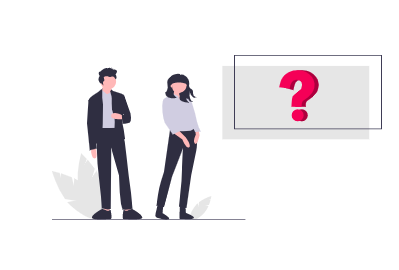
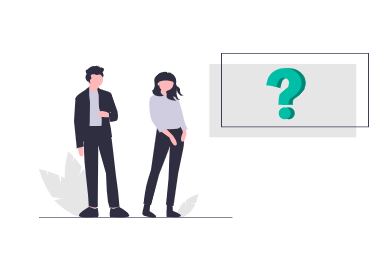
changed primary color to green

Changed region(s): [[0.0868, 0.2471, 0.6079, 0.8649], [0.55, 0.1853, 0.9842, 0.556]]

diff --git a/src/styles/login.module.css b/src/styles/login.module.css
@@ -1,6 +1,6 @@
 .login h1 {
   font-size: 40px;
-  color: #c92a2a;
+  color: #099268;
   text-shadow: 2px 4px 3px rgba(0, 0, 0, 0.1);
 }
 
@@ -64,7 +64,7 @@
 .working h1 {
   font-size: 40px;
   font-weight: 600;
-  color: #c92a2a;
+  color: #099268;
   text-shadow: 2px 4px 3px rgba(0, 0, 0, 0.2);
 }
 .Cards {
@@ -89,7 +89,7 @@
 }
 
 .FAQimg {
-  background-color: #c92a2a;
+  background-color: #099268;
   height: 450px;
   margin: 0;
   clip-path: polygon(0 0, 100% 0, 100% 100%, 0 calc(100% - 5vw));
